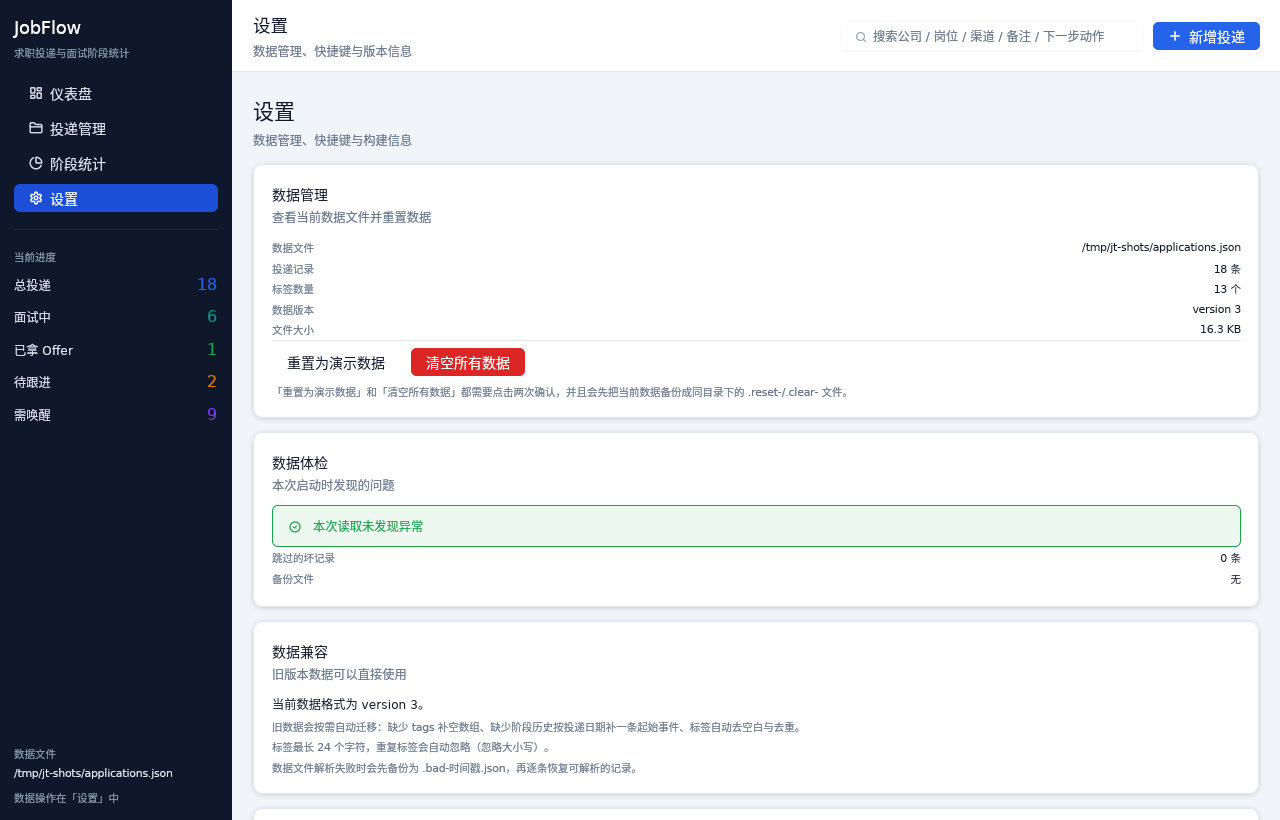
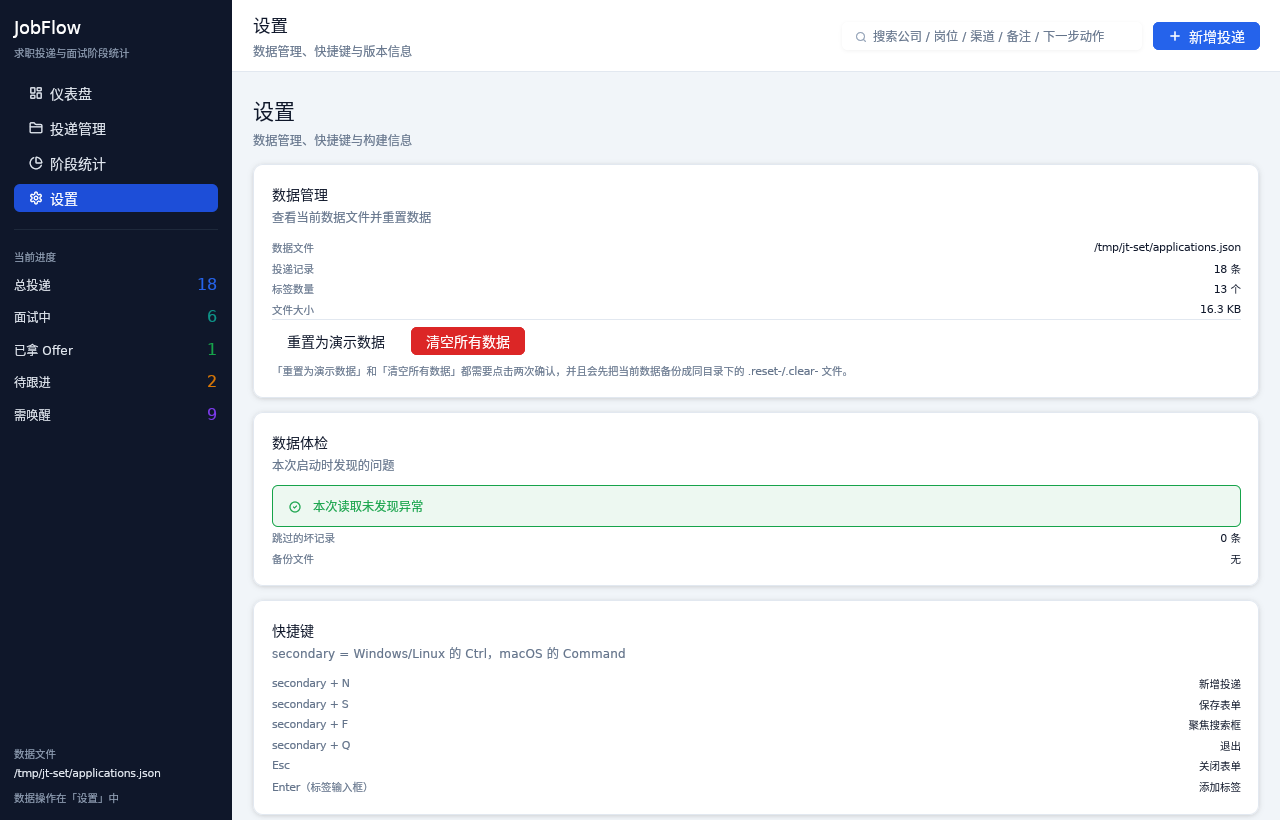
feat(settings): 移除数据版本与数据兼容信息
设置页不再展示「数据版本」「数据格式」以及整张「数据兼容」卡片：
版本号属于实现细节，普通用户不需要看到；数据迁移逻辑不受影响，
仍然在加载旧数据时自动完成。同步更新设置页截图。

diff --git a/src/ui/settings.rs b/src/ui/settings.rs
@@ -51,10 +51,6 @@ impl RootView {
                         format!("{} 条", self.store.len()),
                     ))
                     .child(field_row("标签数量", format!("{} 个", tags.len())))
-                    .child(field_row(
-                        "数据版本",
-                        format!("version {}", self.store.version),
-                    ))
                     .child(field_row("文件大小", file_size_text))
                     .child(divider())
                     .child(
@@ -144,43 +140,6 @@ impl RootView {
             .child(
                 card()
                     .p_5()
-                    .child(card_title("数据兼容", "旧版本数据可以直接使用"))
-                    .child(
-                        div()
-                            .text_sm()
-                            .text_color(theme::text())
-                            .child(format!(
-                                "当前数据格式为 version {}。",
-                                crate::model::CURRENT_VERSION
-                            )),
-                    )
-                    .child(
-                        div()
-                            .text_xs()
-                            .text_color(theme::muted())
-                            .mt_1()
-                            .child(
-                                "旧数据会按需自动迁移：缺少 tags 补空数组、缺少阶段历史按投递日期补一条起始事件、标签自动去空白与去重。",
-                            ),
-                    )
-                    .child(
-                        div()
-                            .text_xs()
-                            .text_color(theme::muted())
-                            .mt_1()
-                            .child("标签最长 24 个字符，重复标签会自动忽略（忽略大小写）。"),
-                    )
-                    .child(
-                        div()
-                            .text_xs()
-                            .text_color(theme::muted())
-                            .mt_1()
-                            .child("数据文件解析失败时会先备份为 .bad-时间戳.json，再逐条恢复可解析的记录。"),
-                    ),
-            )
-            .child(
-                card()
-                    .p_5()
                     .child(card_title(
                         "快捷键",
                         "secondary = Windows/Linux 的 Ctrl，macOS 的 Command",
@@ -205,10 +164,6 @@ impl RootView {
                         } else {
                             "release"
                         },
-                    ))
-                    .child(field_row(
-                        "数据格式",
-                        format!("version {}", self.store.version),
                     )),
             )
     }

diff --git a/CHANGELOG.md b/CHANGELOG.md
@@ -2,6 +2,13 @@
 
 本项目遵循[语义化版本](https://semver.org/lang/zh-CN/)，1.0 之前次版本号可能包含不兼容变更。
 
+## [未发布]
+
+### 变更
+
+- 设置页不再展示「数据版本」「数据格式」与整张「数据兼容」卡片：
+  版本号属于实现细节，普通用户不需要看到。数据迁移仍在后台自动进行。
+
 ## [0.2.1] - 2026-09-10
 
 ### 修复
